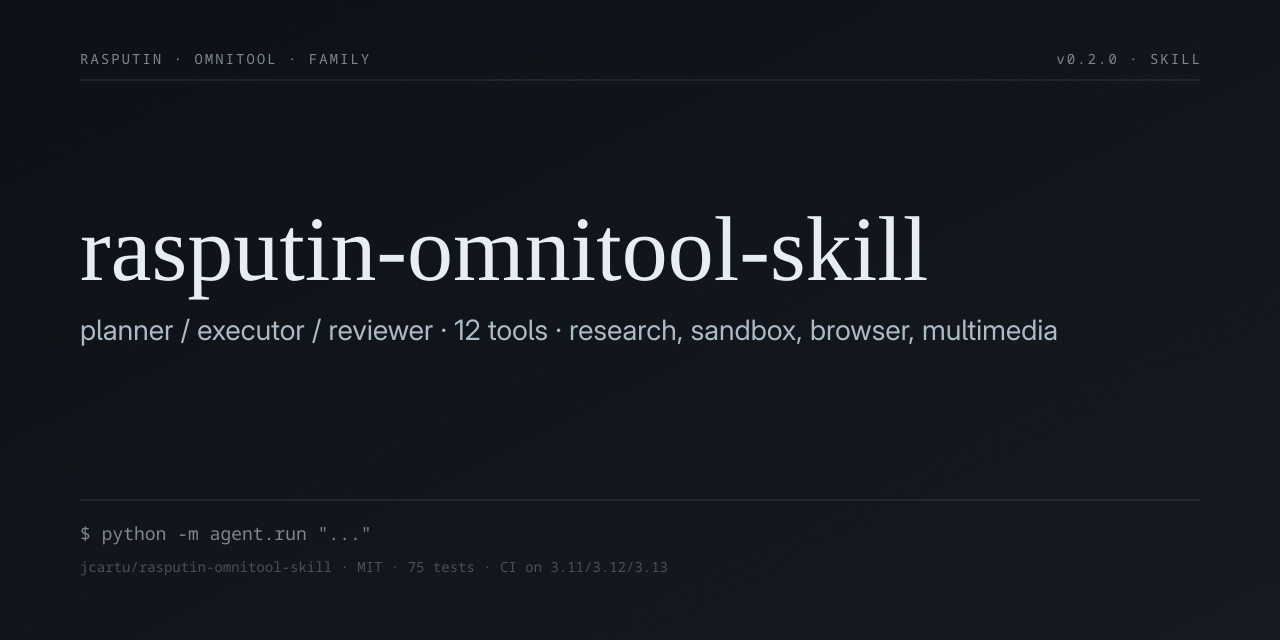
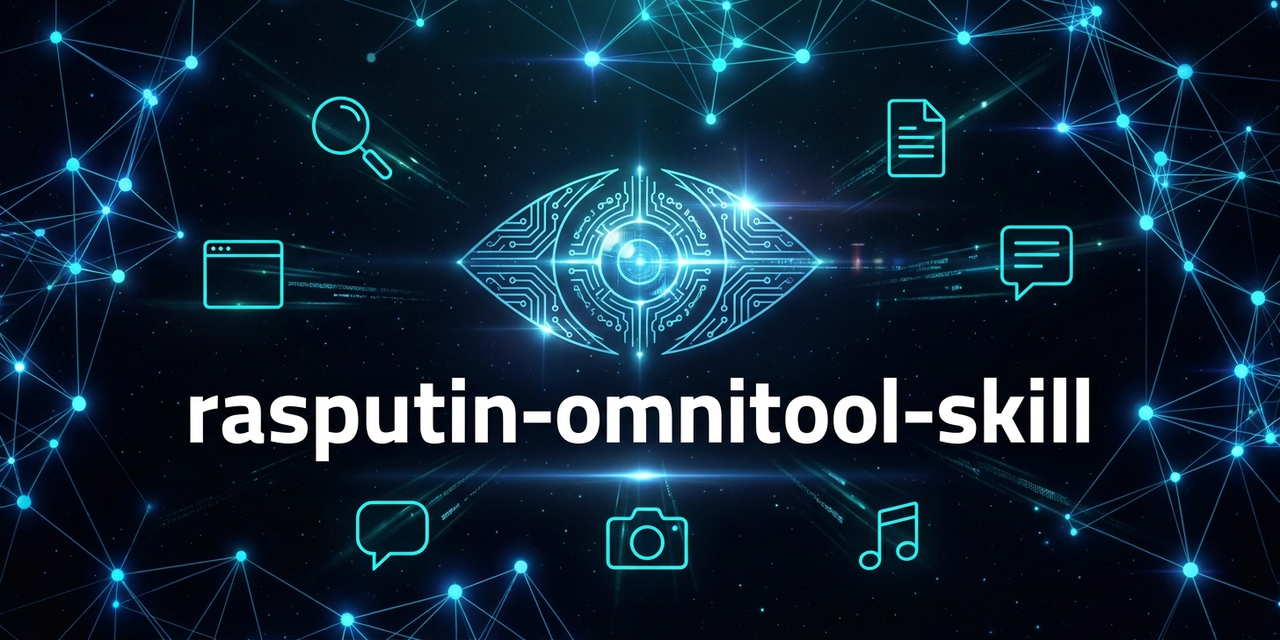
visual: gorgeous repo makeover with nano-banana-pro-preview
- Logo mark (circuit eye, cyan/blue on black)
- Hero banner (1280x400, tool icons in hexagonal layout)
- Social preview (1280x640, with rasputin-omnitool-skill text)
- Favicon (multi-size .ico + source PNG)
- README: added logo + hero banner

diff --git a/README.md b/README.md
@@ -1,9 +1,14 @@
-# rasputin-omnitool-skill
+<p align="center">
+<img src=".github/assets/logo-mark.png" alt="rasputin-omnitool-skill" width="80"/>
+</p>
+
+<p align="center">
+<img src=".github/assets/hero.png" alt="rasputin-omnitool-skill hero" width="100%"/>
+</p>
 
 [![License: MIT](https://img.shields.io/badge/License-MIT-blue.svg)](LICENSE)
 [![Python 3.11+](https://img.shields.io/badge/python-3.11%2B-blue.svg)](pyproject.toml)
 [![Tests](https://github.com/jcartu/rasputin-omnitool-skill/actions/workflows/tests.yml/badge.svg)](https://github.com/jcartu/rasputin-omnitool-skill/actions/workflows/tests.yml)
-
 OpenClaw skill bundle providing agent workflows: research, browse, parse, sandbox-execute, generate multimedia (image / video / audio / music), and deliver multi-format reports.
 
 Built on top of [rasputin-omnitool](https://github.com/jcartu/rasputin-omnitool) for catalog, library-smoke, and deliverable primitives.
